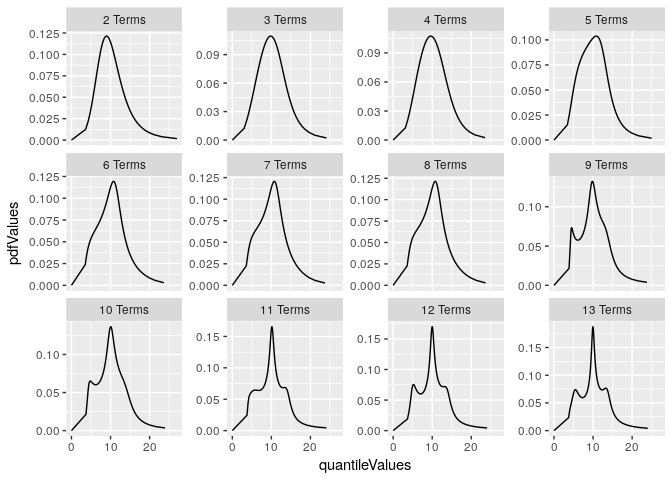
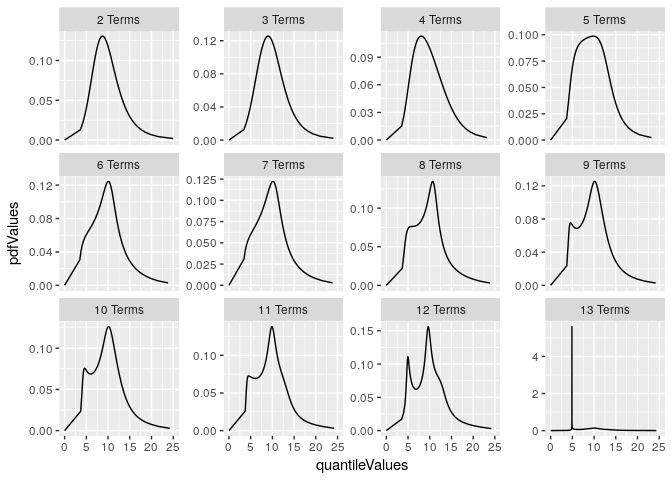
updating quntile function

diff --git a/README.md b/README.md
@@ -57,23 +57,16 @@ This function takes several inputs:
 -   bounds - the values of the bounds if upper, lower or bounded (must be two numeric values lower and upper)
 -   term\_limit - the number of metalog terms to evaluate (must be an integer greater than or equal to 3 and less than 30, defaults to 3)
 
-In order to create a metalog distribution use the function and assign the output to a variable.
-
-``` r
-#use a smaller subset for performance
-mysample <- fishSize[sample(1:nrow(fishSize), 200,replace=FALSE),]
-```
+In order to create a metalog distribution use the function and assign the output to a variable (myMetalog).
 
 build the distributions.
 
 ``` r
-myMetalog <- rMetalog(mysample,
+myMetalog <- rMetalog(fishSize$FishSize,
                       step_len = .01,
                       bounds=0,
                       boundedness = 'sl',
                       term_limit = 13)
-#> [1] "Building the metalog distributions now"
-#> [1] "Building distribution functions and samples"
 ```
 
 This function returns a list with the following components for use
@@ -115,15 +108,15 @@ You can now plot some of the results using
 myMetalog$GridPlotPDF
 ```
 
-![](README-unnamed-chunk-10-1.png)
+![](README-unnamed-chunk-9-1.png)
 
 ``` r
 myMetalog$GridPlotCDF
 ```
 
-![](README-unnamed-chunk-11-1.png)
+![](README-unnamed-chunk-10-1.png)
 
 As this package evolves this list will include some additional functionality
 
--   cdf function
+-   improved error checking
 -   sampling function
